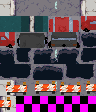
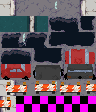
shoot over holes

diff --git a/map.js b/map.js
@@ -36,9 +36,22 @@ export default class Map extends Entity {
         ];
         this.tiles2 = [
             [6, 6, 6, 6, 6, 7, 0, 1, 2, 3, 2, 4, 5, 8, 6, 6, 6, 6, 6],
-            [6, 6, 6, 6, 6, 7, 0, 9, 10, 3, 2, 4, 5, 8, 6, 6, 6, 6, 6],
-            [6, 6, 6, 6, 6, 7, 0, 11, 12, 3, 2, 4, 5, 8, 6, 6, 6, 6, 6],
+            [6, 6, 6, 6, 6, 7, 0, 22, 23, 3, 2, 4, 5, 8, 6, 6, 6, 6, 6],
+            [6, 6, 6, 6, 6, 7, 0, 24, 25, 3, 2, 4, 5, 8, 6, 6, 6, 6, 6],
             [6, 6, 6, 6, 6, 7, 30, 31, 32, 33, 34, 35, 36, 8, 6, 6, 6, 6, 6],
+            [6, 6, 6, 6, 6, 7, 0, 1, 2, 3, 18, 19, 5, 8, 6, 6, 6, 6, 6],
+            [6, 6, 6, 6, 6, 7, 0, 1, 2, 3, 20, 21, 5, 8, 6, 6, 6, 6, 6],
+            [6, 6, 6, 6, 6, 7, 0, 1, 2, 3, 2, 4, 5, 8, 6, 6, 6, 6, 6],
+            [6, 6, 6, 6, 6, 7, 0, 1, 2, 3, 2, 4, 5, 8, 6, 6, 6, 6, 6],
+            [6, 6, 6, 6, 6, 7, 0, 1, 2, 3, 2, 4, 5, 8, 6, 6, 6, 6, 6],
+            [6, 6, 6, 6, 6, 7, 0, 1, 2, 3, 2, 4, 5, 8, 6, 6, 6, 6, 6],
+            [6, 6, 6, 6, 6, 7, 0, 1, 2, 3, 2, 4, 5, 8, 6, 6, 6, 6, 6],
+            [6, 6, 6, 6, 6, 7, 0, 9, 10, 3, 2, 4, 5, 8, 6, 6, 6, 6, 6],
+            [6, 6, 6, 6, 6, 7, 0, 1, 11, 3, 2, 4, 5, 8, 6, 6, 6, 6, 6],
+            [6, 6, 6, 6, 6, 7, 0, 1, 2, 3, 2, 4, 5, 8, 6, 6, 6, 6, 6],
+            [6, 6, 6, 6, 6, 7, 0, 1, 2, 3, 2, 4, 5, 8, 6, 6, 6, 6, 6],
+            [6, 6, 6, 6, 6, 7, 0, 1, 2, 3, 2, 4, 5, 8, 6, 6, 6, 6, 6],
+            [6, 6, 6, 6, 6, 7, 0, 1, 2, 3, 2, 4, 5, 8, 6, 6, 6, 6, 6],
             [6, 6, 6, 6, 6, 7, 0, 1, 2, 3, 26, 27, 5, 8, 6, 6, 6, 6, 6],
             [6, 6, 6, 6, 6, 7, 0, 1, 2, 3, 28, 29, 5, 8, 6, 6, 6, 6, 6],
             [6, 6, 6, 6, 6, 7, 0, 1, 2, 3, 2, 4, 5, 8, 6, 6, 6, 6, 6],
@@ -46,40 +59,27 @@ export default class Map extends Entity {
             [6, 6, 6, 6, 6, 7, 0, 1, 2, 3, 2, 4, 5, 8, 6, 6, 6, 6, 6],
             [6, 6, 6, 6, 6, 7, 0, 1, 2, 3, 2, 4, 5, 8, 6, 6, 6, 6, 6],
             [6, 6, 6, 6, 6, 7, 0, 1, 2, 3, 2, 4, 5, 8, 6, 6, 6, 6, 6],
-            [6, 6, 6, 6, 6, 7, 0, 17, 18, 3, 2, 4, 5, 8, 6, 6, 6, 6, 6],
-            [6, 6, 6, 6, 6, 7, 0, 1, 19, 3, 2, 4, 5, 8, 6, 6, 6, 6, 6],
+            [6, 6, 6, 6, 6, 7, 0, 1, 12, 13, 14, 4, 5, 8, 6, 6, 6, 6, 6],
+            [6, 6, 6, 6, 6, 7, 0, 1, 15, 16, 17, 4, 5, 8, 6, 6, 6, 6, 6],
             [6, 6, 6, 6, 6, 7, 0, 1, 2, 3, 2, 4, 5, 8, 6, 6, 6, 6, 6],
             [6, 6, 6, 6, 6, 7, 0, 1, 2, 3, 2, 4, 5, 8, 6, 6, 6, 6, 6],
             [6, 6, 6, 6, 6, 7, 0, 1, 2, 3, 2, 4, 5, 8, 6, 6, 6, 6, 6],
+            [6, 6, 6, 6, 6, 7, 0, 1, 2, 3, 18, 19, 5, 8, 6, 6, 6, 6, 6],
+            [6, 6, 6, 6, 6, 7, 0, 1, 2, 3, 20, 21, 5, 8, 6, 6, 6, 6, 6],
             [6, 6, 6, 6, 6, 7, 0, 1, 2, 3, 2, 4, 5, 8, 6, 6, 6, 6, 6],
-            [6, 6, 6, 6, 6, 7, 0, 1, 2, 3, 13, 14, 5, 8, 6, 6, 6, 6, 6],
-            [6, 6, 6, 6, 6, 7, 0, 1, 2, 3, 15, 16, 5, 8, 6, 6, 6, 6, 6],
+            [6, 6, 6, 6, 6, 7, 0, 22, 23, 3, 2, 4, 5, 8, 6, 6, 6, 6, 6],
+            [6, 6, 6, 6, 6, 7, 0, 24, 25, 3, 2, 4, 5, 8, 6, 6, 6, 6, 6],
             [6, 6, 6, 6, 6, 7, 0, 1, 2, 3, 2, 4, 5, 8, 6, 6, 6, 6, 6],
             [6, 6, 6, 6, 6, 7, 0, 1, 2, 3, 2, 4, 5, 8, 6, 6, 6, 6, 6],
-            [6, 6, 6, 6, 6, 7, 0, 1, 2, 3, 2, 4, 5, 8, 6, 6, 6, 6, 6],
-            [6, 6, 6, 6, 6, 7, 0, 1, 2, 3, 2, 4, 5, 8, 6, 6, 6, 6, 6],
-            [6, 6, 6, 6, 6, 7, 0, 1, 2, 3, 2, 4, 5, 8, 6, 6, 6, 6, 6],
-            [6, 6, 6, 6, 6, 7, 0, 1, 20, 21, 22, 4, 5, 8, 6, 6, 6, 6, 6],
-            [6, 6, 6, 6, 6, 7, 0, 1, 23, 24, 25, 4, 5, 8, 6, 6, 6, 6, 6],
             [6, 6, 6, 6, 6, 7, 0, 1, 2, 3, 2, 4, 5, 8, 6, 6, 6, 6, 6],
             [6, 6, 6, 6, 6, 7, 0, 1, 2, 3, 2, 4, 5, 8, 6, 6, 6, 6, 6],
             [6, 6, 6, 6, 6, 7, 0, 1, 2, 3, 2, 4, 5, 8, 6, 6, 6, 6, 6],
             [6, 6, 6, 6, 6, 7, 0, 1, 2, 3, 26, 27, 5, 8, 6, 6, 6, 6, 6],
             [6, 6, 6, 6, 6, 7, 0, 1, 2, 3, 28, 29, 5, 8, 6, 6, 6, 6, 6],
-            [6, 6, 6, 6, 6, 7, 0, 1, 2, 3, 2, 4, 5, 8, 6, 6, 6, 6, 6],
-            [6, 6, 6, 6, 6, 7, 0, 9, 10, 3, 2, 4, 5, 8, 6, 6, 6, 6, 6],
-            [6, 6, 6, 6, 6, 7, 0, 11, 12, 3, 2, 4, 5, 8, 6, 6, 6, 6, 6],
-            [6, 6, 6, 6, 6, 7, 0, 1, 2, 3, 2, 4, 5, 8, 6, 6, 6, 6, 6],
-            [6, 6, 6, 6, 6, 7, 0, 1, 2, 3, 2, 4, 5, 8, 6, 6, 6, 6, 6],
-            [6, 6, 6, 6, 6, 7, 0, 1, 2, 3, 2, 4, 5, 8, 6, 6, 6, 6, 6],
-            [6, 6, 6, 6, 6, 7, 0, 1, 2, 3, 2, 4, 5, 8, 6, 6, 6, 6, 6],
-            [6, 6, 6, 6, 6, 7, 0, 1, 2, 3, 2, 4, 5, 8, 6, 6, 6, 6, 6],
-            [6, 6, 6, 6, 6, 7, 0, 1, 2, 3, 13, 14, 5, 8, 6, 6, 6, 6, 6],
-            [6, 6, 6, 6, 6, 7, 0, 1, 2, 3, 15, 16, 5, 8, 6, 6, 6, 6, 6],
             [6, 6, 6, 6, 6, 7, 30, 31, 32, 33, 34, 35, 36, 8, 6, 6, 6, 6, 6],
             [6, 6, 6, 6, 6, 7, 0, 1, 2, 3, 2, 4, 5, 8, 6, 6, 6, 6, 6],
-            [6, 6, 6, 6, 6, 7, 0, 17, 18, 3, 2, 4, 5, 8, 6, 6, 6, 6, 6],
-            [6, 6, 6, 6, 6, 7, 0, 1, 19, 3, 2, 4, 5, 8, 6, 6, 6, 6, 6],
+            [6, 6, 6, 6, 6, 7, 0, 9, 10, 3, 2, 4, 5, 8, 6, 6, 6, 6, 6],
+            [6, 6, 6, 6, 6, 7, 0, 1, 11, 3, 2, 4, 5, 8, 6, 6, 6, 6, 6],
         ];
     }
     load() {
@@ -104,10 +104,10 @@ export default class Map extends Entity {
         // tiles
         this.anims = {
             "sidewalkLeft": 0, "roadLeft": 1, "road": 2, "roadMid": 3, "roadRight": 4, "sidewalkRight": 5,
-            "noClipGrass": 6, "borderGrass1": 7, "borderGrass2": 8, "car1": 9, "car2": 10, "car3": 11,
-            "car4": 12, "car5": 13, "car6": 14, "car7": 15, "car8": 16, "leftHole1": 17,
-            "leftHole2": 18, "leftHole3": 19, "midHole1": 20, "midHole2": 21, "midHole3": 22, "midHole4": 23,
-            "midHole5": 24, "midHole6": 25, "rightHole1": 26, "rightHole2": 27, "rightHole3": 28, "rightHole4": 29,
+            "noClipGrass": 6, "borderGrass1": 7, "borderGrass2": 8, "leftHole1": 9, "leftHole2": 10, "leftHole3": 11,
+            "midHole1": 12, "midHole2": 13, "midHole3": 14, "midHole4": 15, "midHole5": 16, "midHole6": 17,
+            "rightHole1": 18, "rightHole2": 19, "rightHole3": 20, "rightHole4": 21, "car1": 22, "car2": 23,
+            "car3": 24, "car4": 25, "car5": 26, "car6": 27, "car7": 28, "car8": 29,
             "border1": 30, "border2": 31, "border3": 32, "border4": 33, "border5": 34, "border6": 35,
             "border7": 36
         };

diff --git a/entities/bullet.js b/entities/bullet.js
@@ -24,7 +24,7 @@ export default class Bullet {
         let x = Math.floor((this.x + 220) / 16);
         let y = Math.floor((this.y + 220) / 16);
 
-        if (map[y][x] > 5) {
+        if (map[y][x] > 21) {
             bullets.splice(bullets.indexOf(this), 1);
         }
     }
